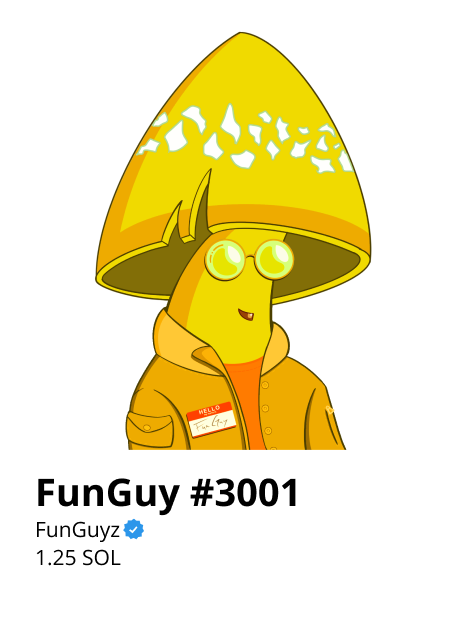
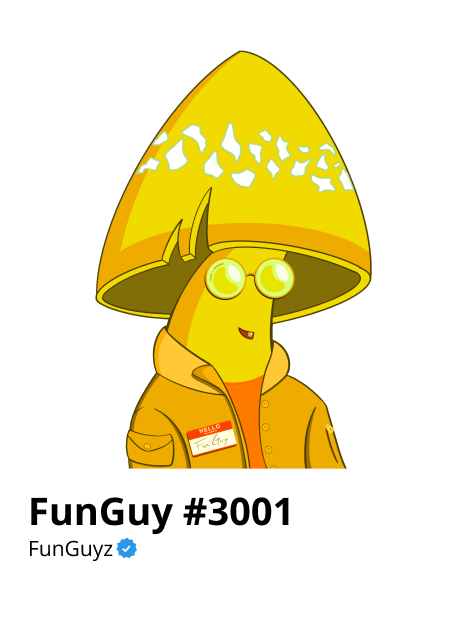
changed SOL price

Changed region(s): [[0.06, 0.0305, 0.8094, 0.9149]]

diff --git a/src/components/About.js b/src/components/About.js
@@ -16,7 +16,7 @@ const About = () => {
         </AboutBlurb1>
         <AboutBlurb2>
           <h2>How much are they?</h2>
-          <h5>Joining the Fun Fam is just 0.7 SOL.</h5>
+          <h5>TBD!</h5>
         </AboutBlurb2>
         <AboutBlurb3>
           <h2>Wen Mint?</h2>
